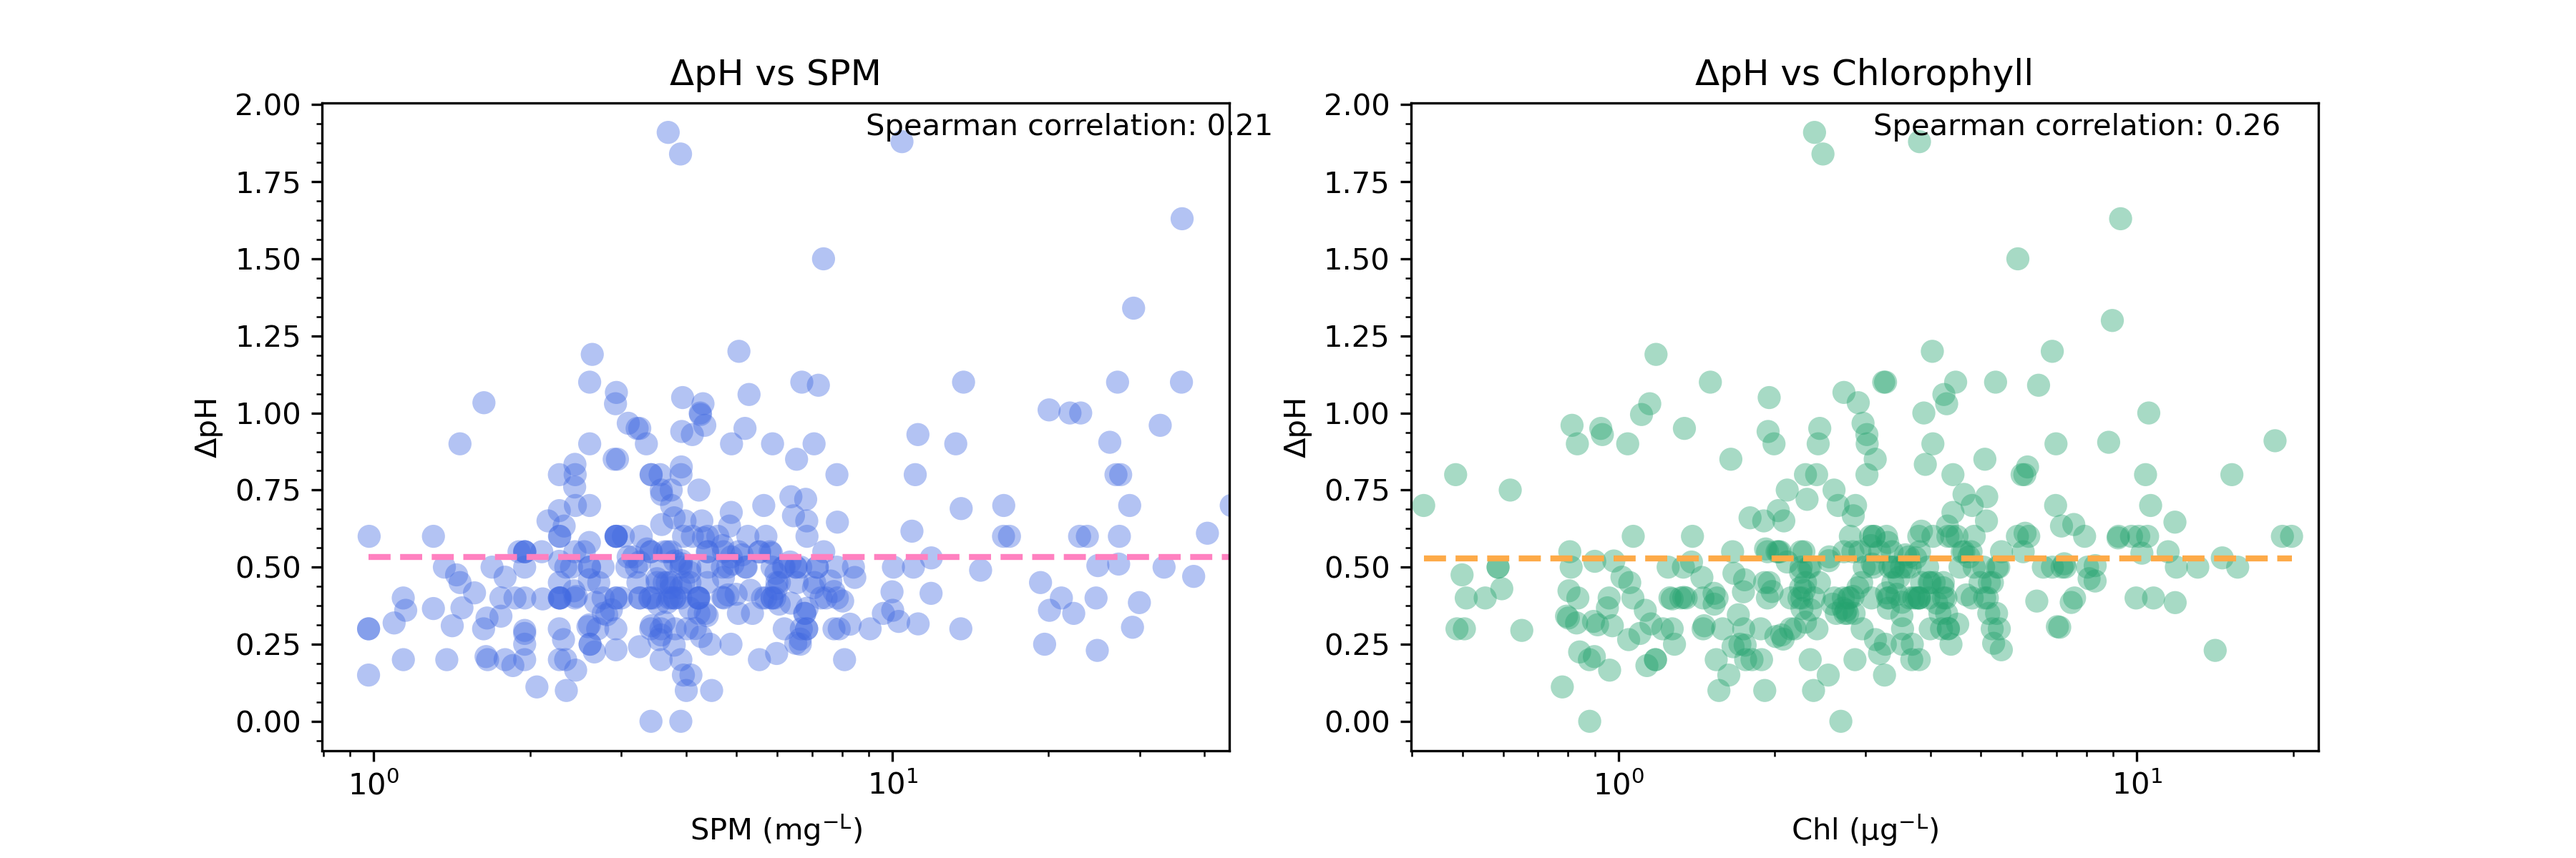
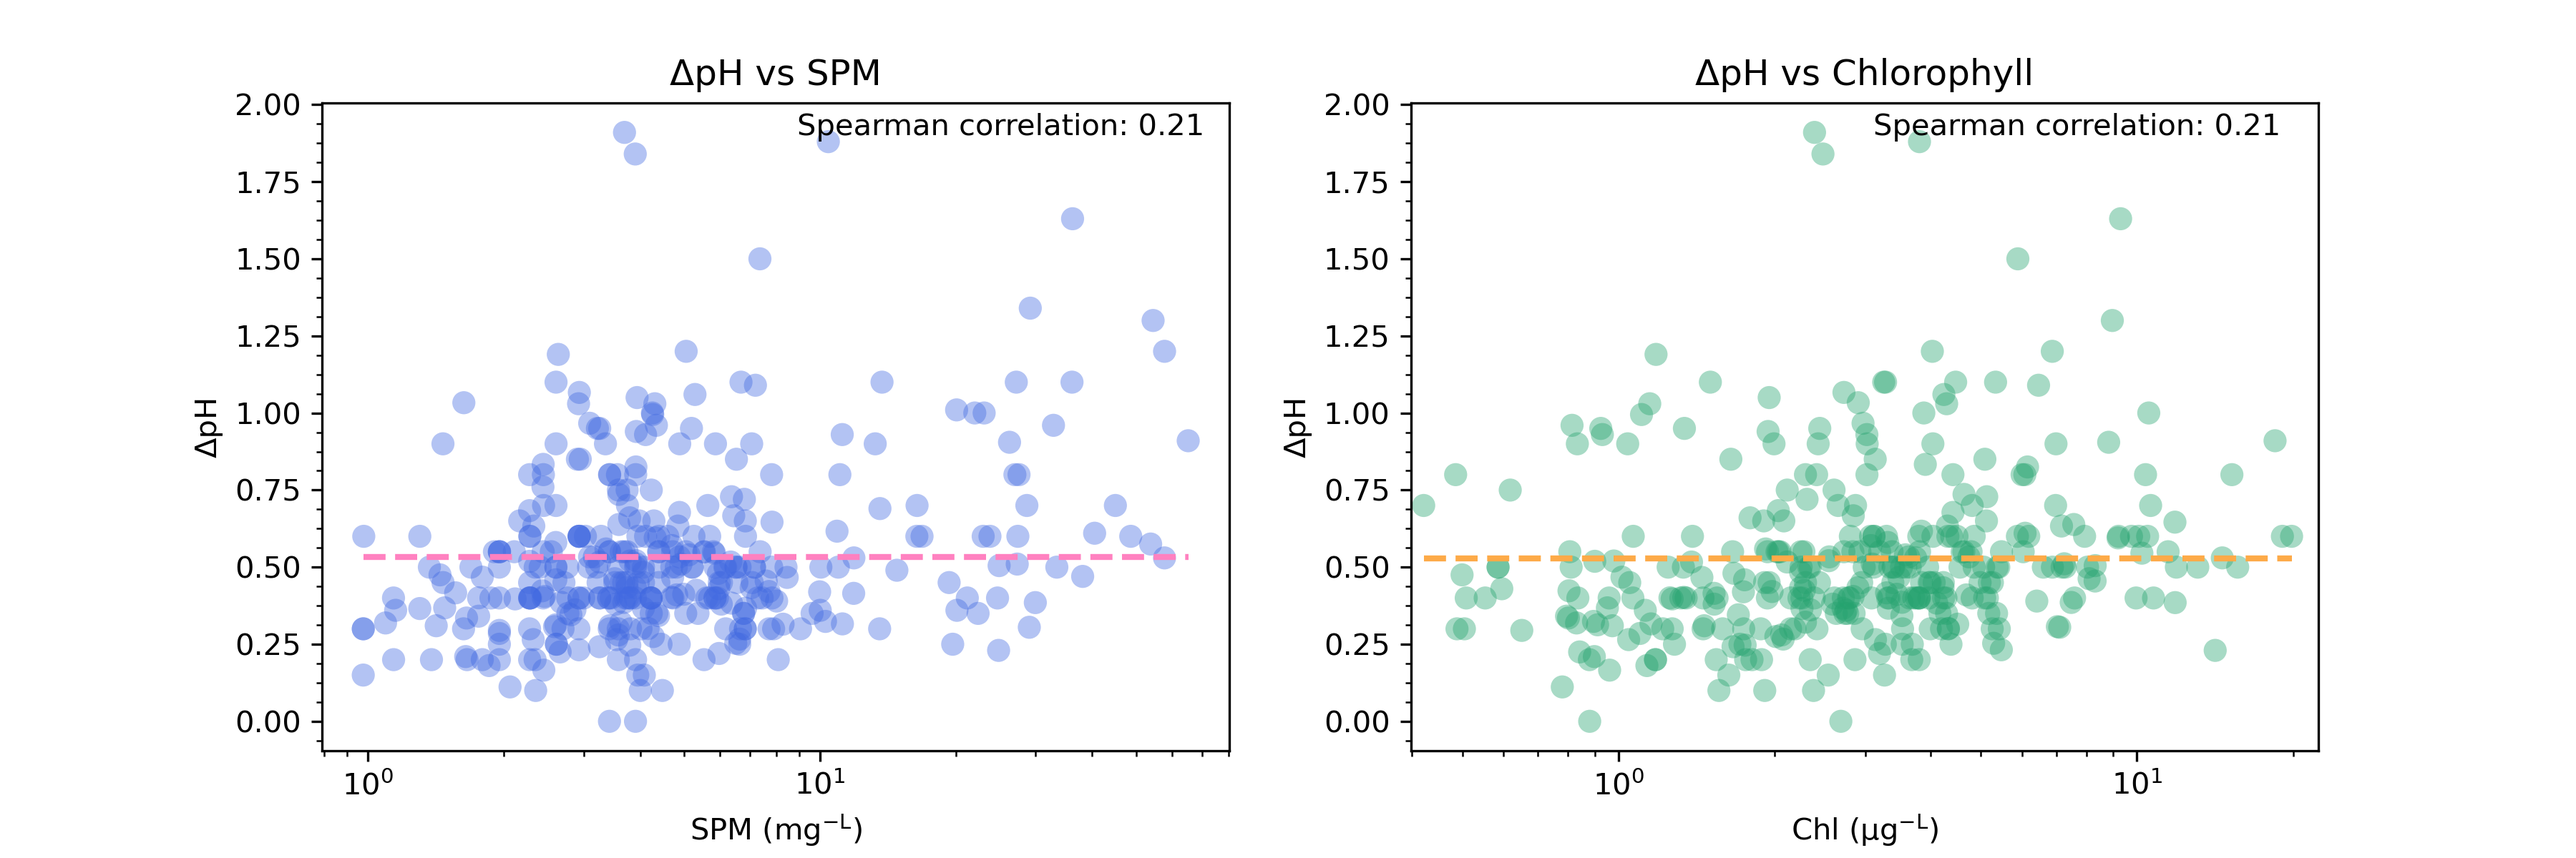
update

diff --git a/P_and_N/tp_dip_op.py b/P_and_N/tp_dip_op.py
@@ -7,6 +7,7 @@ import seaborn as sns
 import matplotlib.dates as mdates
 import matplotlib.patches as mpatches
 from matplotlib.ticker import (AutoMinorLocator)
+from scipy.stats.stats import spearmanr
 
 
 x1=pd.DataFrame()
@@ -113,6 +114,13 @@ axs[0,0].xaxis.set_minor_locator(AutoMinorLocator(2))
 axs[0,0].tick_params(axis='y', labelsize=7)
 axs[0,0].set_title('Wadden Sea', fontsize=10)
 
+#Spearman correlation
+#_var1 = var1_pchip
+_var1 = var2_pchip-var1_pchip
+_var2 = pH_pchip
+corr1, _ = spearmanr(_var1, _var2)
+corr1 = "%.1f" % corr1
+
 #%% Nearshore <20km
 location = locations[2]
 
@@ -191,6 +199,12 @@ axs[0,1].xaxis.set_minor_locator(AutoMinorLocator(2))
 axs[0,1].tick_params(axis='y', labelsize=7)
 axs[0,1].set_title('Nearshore (<20 km)', fontsize=10)
 
+#Spearman correlation
+#_var1 = var1_pchip
+_var1 = var2_pchip-var1_pchip
+_var2 = pH_pchip
+corr2, _ = spearmanr(_var1, _var2)
+corr2 = "%.1f" % corr2
 #%% Intermediate 20-50 km
 location = locations[3]
 
@@ -269,6 +283,13 @@ axs[1,0].set_xticklabels([' ', 'Feb', 'April', 'June', 'Aug', 'Oct', 'Dec'], fon
 axs[1,0].xaxis.set_minor_locator(AutoMinorLocator(2))
 axs[1,0].tick_params(axis='y', labelsize=7)
 axs[1,0].set_title('Intermediate (20-50 km)', fontsize=10)
+
+#Spearman correlation
+#_var1 = var1_pchip
+_var1 = var2_pchip-var1_pchip
+_var2 = pH_pchip
+corr3, _ = spearmanr(_var1, _var2)
+corr3 = "%.1f" % corr3
 #%% Offshore 70+ km
 location = locations[4]
 
@@ -349,6 +370,12 @@ axs[1,1].xaxis.set_minor_locator(AutoMinorLocator(2))
 axs[1,1].tick_params(axis='y', labelsize=7)
 axs[1,1].set_title('Offshore (≥70 km)', fontsize=10)
 
+#Spearman correlation
+#_var1 = var1_pchip
+_var1 = var2_pchip-var1_pchip
+_var2 = pH_pchip
+corr4, _ = spearmanr(_var1, _var2)
+corr4 = "%.1f" % corr4
 #%% Formatting and plotting
 fig.suptitle('Monthly averaged P surface waters \n 1973-2020', 
              fontsize=12, x=0.36, y=0.97) 
@@ -363,3 +390,4 @@ plt.legend(handles=[teal_patch, orange_patch, grey_patch, coral_patch],
 
 #Saving
 plt.savefig("figures/phosphate_tp_with_pH.png", bbox_inches='tight')
+

diff --git a/P_and_N/tn_din_on.py b/P_and_N/tn_din_on.py
@@ -8,6 +8,7 @@ import matplotlib.dates as mdates
 import matplotlib.patches as mpatches
 import matplotlib.ticker as ticker
 from matplotlib.ticker import (AutoMinorLocator)
+from scipy.stats.stats import spearmanr
 
 x1=pd.DataFrame()
 x2=pd.DataFrame()
@@ -115,6 +116,12 @@ axs[0,0].set_xticklabels([' ', 'Feb', 'April', 'June', 'Aug', 'Oct', 'Dec'], fon
 axs[0,0].xaxis.set_minor_locator(AutoMinorLocator(2))
 axs[0,0].set_title('Wadden Sea', fontsize=10)
 
+#Spearman correlation
+_var1 = var1_pchip
+#_var1 = var2_pchip-var1_pchip
+_var2 = pH_pchip
+corr1, _ = spearmanr(_var1, _var2)
+corr1 = "%.1f" % corr1
 #%% Nearshore <20km
 location = locations[2]
 
@@ -197,6 +204,12 @@ axs[0,1].set_xticklabels([' ', 'Feb', 'April', 'June', 'Aug', 'Oct', 'Dec'], fon
 axs[0,1].xaxis.set_minor_locator(AutoMinorLocator(2))
 axs[0,1].set_title('Nearshore (<20 km)', fontsize=10)
 
+#Spearman correlation
+_var1 = var1_pchip
+#_var1 = var2_pchip-var1_pchip
+_var2 = pH_pchip
+corr2, _ = spearmanr(_var1, _var2)
+corr2 = "%.1f" % corr2
 #%% Intermediate 20-50 km
 location = locations[3]
 
@@ -276,6 +289,13 @@ axs[1,0].set_xticklabels([' ', 'Feb', 'April', 'June', 'Aug', 'Oct', 'Dec'], fon
 axs[1,0].xaxis.set_minor_locator(AutoMinorLocator(2))
 axs[1,0].tick_params(axis='y', labelsize=7)
 axs[1,0].set_title('Intermediate (20-50 km)', fontsize=10)
+
+#Spearman correlation
+_var1 = var1_pchip
+#_var1 = var2_pchip-var1_pchip
+_var2 = pH_pchip
+corr3, _ = spearmanr(_var1, _var2)
+corr3 = "%.1f" % corr3
 #%% Offshore 70+ km
 location = locations[4]
 
@@ -358,6 +378,12 @@ axs[1,1].tick_params(axis='y', labelsize=7)
 axs[1,1].yaxis.set_major_locator(ticker.MultipleLocator(4))
 axs[1,1].set_title('Offshore (≥70 km)', fontsize=10)
 
+#Spearman correlation
+_var1 = var1_pchip
+#_var1 = var2_pchip-var1_pchip
+_var2 = pH_pchip
+corr4, _ = spearmanr(_var1, _var2)
+corr4 = "%.1f" % corr4
 #%% Formatting and plotting
 fig.suptitle('Monthly averaged N surface waters \n 1973-2020', 
              fontsize=12, x=0.36, y=0.97)

diff --git a/dpH, chlorophyll & spm/dpH_chlor_spm.py b/dpH, chlorophyll & spm/dpH_chlor_spm.py
@@ -82,14 +82,15 @@ df2 = pd.DataFrame(data, columns = ['station', 'year', 'dpH', 'spm', 'chlorophyl
 ax1.scatter(df2.spm, df2.dpH, s=60, marker='o', c='royalblue', alpha=0.4, edgecolor='none')
 
 #Spearman
-L = ~np.isnan(df2.spm) & ~np.isnan(df2.dpH)
-df2_pH = df2.dpH[L]
-df2_spm = df2.spm[L]
-corr, _ = spearmanr(df2_pH, df2_spm)
+L1 = ~np.isnan(df2.spm) & ~np.isnan(df2.dpH)
+corr, _ = spearmanr(df2.dpH[L1], df2.spm[L1])
+
+L2 = df2.spm > 10
+corr2, _ = spearmanr(df2.dpH[L2], df2.spm[L2])
 
 # Linear regression
-slope1, intercept1, rv, pv, se = stats.linregress(10**df2_spm, df2_pH)
-spm_interp = np.linspace(np.min(df2_spm), np.max(df2_spm), num=500)
+slope1, intercept1, rv, pv, se = stats.linregress(10**df2.spm[L1], df2.dpH[L1])
+spm_interp = np.linspace(np.min(df2.spm[L1]), np.max(df2.spm[L1]), num=500)
 ax1.plot(spm_interp, intercept1 + slope1 * spm_interp, 
          c='xkcd:pink', linestyle='--', linewidth=2)
  
@@ -106,14 +107,14 @@ ax1.set_ylabel('\u0394' + 'pH')
 ax2.scatter(df2.chlorophyll, df2.dpH, s=60, marker='o', c='xkcd:teal green', alpha=0.4, edgecolor='none')
 
 #Spearman
-L = ~np.isnan(df2.chlorophyll) & ~np.isnan(df2.dpH)
-df2_pH = df2.dpH[L]
-df2_chlor = df2.chlorophyll[L]
-corr, _ = spearmanr(df2_pH, df2_chlor)
+L3 = ~np.isnan(df2.chlorophyll) & ~np.isnan(df2.dpH)
+corr3, _ = spearmanr(df2.dpH[L3], df2.chlorophyll[L3])
+L4 = df2.spm > 6
+corr4, _ = spearmanr(df2.dpH[L4], df2.spm[L4])
 
 # Linear regression
-slope2, intercept2, rv, pv, se = stats.linregress(10**df2_chlor, df2_pH)
-chlor_interp = (np.linspace(np.min(df2_chlor), np.max(df2_chlor), num=500))
+slope2, intercept2, rv, pv, se = stats.linregress(10**df2.chlorophyll[L3], df2.dpH[L3])
+chlor_interp = (np.linspace(np.min(df2.chlorophyll[L3]), np.max(df2.chlorophyll[L3]), num=500))
 ax2.plot(chlor_interp, intercept2 + slope2 * chlor_interp, 
          c='xkcd:light orange', linestyle='--', linewidth=2)
 

diff --git a/pH_P_N_chlor/P_N_chlor_spm_pH.py b/pH_P_N_chlor/P_N_chlor_spm_pH.py
@@ -187,5 +187,5 @@ patch5 = mpatches.Patch(color='xkcd:coral', label= 'SPM')
 plt.legend(handles=[patch1, patch2, patch3, patch4, patch5], 
            bbox_to_anchor=(1.16, -0.2), fontsize=8, ncol=5)
 
-fig.savefig("figures/seasonal/"+ location + "_" + startyear + "-" + endyear + ".png",
-            bbox_inches='tight')
+#fig.savefig("figures/seasonal/"+ location + "_" + startyear + "-" + endyear + ".png",
+ #           bbox_inches='tight')

diff --git a/pH_P_N_chlor/chlorophyll, P and N averaged.py b/pH_P_N_chlor/chlorophyll, P and N averaged.py
@@ -23,7 +23,7 @@ P = 'tp'
 N = 'tn'
 
 #Choose location
-location = locations[4]
+location = locations[1]
     
 #Wadden Sea
 if location == 'WaddenSea':
